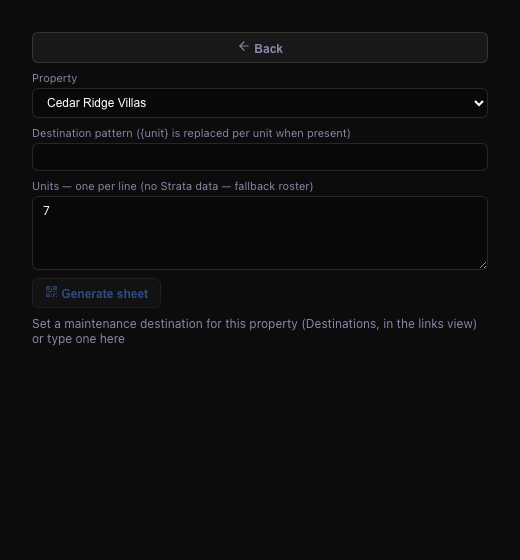
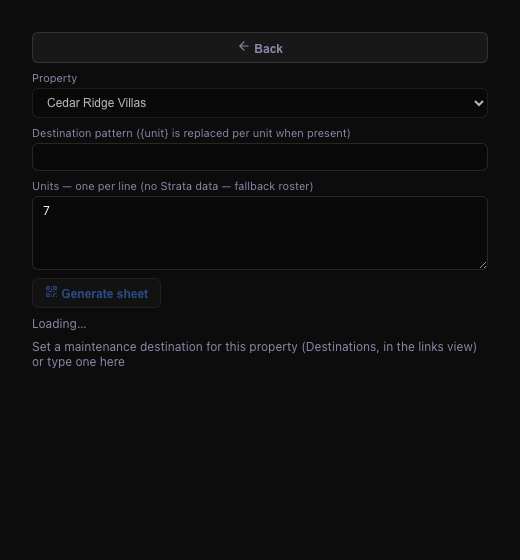
fix(links): id-derived property tags, loading-aware door sheet, roster hints (plan 077 p4 review)
Each reproduced by an adversarial review of 8001adb:

- Two Strata properties with the same name got '-2' tags that collided
  with a real '... 2' property and moved with list order, so one
  property's door codes could re-aim the other's through the bulk
  upsert. Duplicates now get an id-derived suffix (order-independent).
- Generate during the initial list load minted nothing and blamed an
  unreachable backend; it now waits ('Loading...'), and a needs-setup
  backend is named as such on the sheet.
- An empty roster disabled Generate silently; it says why. A request
  with units: [] means the whole roster.
- A comma inside a unit label ('12, Rear') split it into two codes.
- A blank Strata name or unit number produced a dead button; archived
  and inactive properties are left out; presets wait for the property
  list instead of showing the fallback as if it were Strata's.
- Scribe: a long doc slug would overflow the 64-char key; hash suffix.
- Tests for the four untested guards the reviewer found.

Changed region(s): [[0.0615, 0.5464, 0.9231, 0.6679], [0.0923, 0.1821, 0.2154, 0.2125], [0.2462, 0.1821, 0.2769, 0.2125]]

diff --git a/qualia-shell/src/test/shortLinksWidget.test.tsx b/qualia-shell/src/test/shortLinksWidget.test.tsx
@@ -1753,3 +1753,105 @@ describe('ShortLinks widget — Strata properties + door-sheet deep link (plan 0
         expect(screen.getByRole('button', { name: 'QR door sheet' })).toBeInTheDocument();
     });
 });
+
+describe('phase 4 review regressions', () => {
+    const req = (units?: string[]) => ({ propertyId: 'woodland-parc', propertyName: 'Woodland Parc Townhomes', ...(units ? { units } : {}) });
+    const fire = (detail: unknown) => window.dispatchEvent(new CustomEvent('dwellium:open-door-sheet', { detail }));
+
+    it('Generate waits for the list (disabled + "Loading…") instead of minting nothing with a wrong reason', async () => {
+        seedDestinations();
+        let release: ((r: Response) => void) | null = null;
+        vi.stubGlobal('fetch', vi.fn(async () => new Promise<Response>(res => { release = res; })));
+        setPendingDeepLink('short-links', JSON.stringify(req(['2794-5'])));
+        render(<ShortLinks />);
+        await screen.findByLabelText('Destination pattern');
+        expect(screen.getByRole('button', { name: /Generate sheet/i })).toBeDisabled();
+        expect(screen.getByText('Loading…')).toBeInTheDocument();
+        release!(jsonResponse({ success: true, mode: 'builtin', data: [] }));
+        await waitFor(() => expect(screen.getByRole('button', { name: /Generate sheet/i })).toBeEnabled());
+    });
+
+    it('a needs-setup backend says so on the sheet instead of "not reachable"', async () => {
+        seedDestinations();
+        vi.stubGlobal('fetch', vi.fn(async () => jsonResponse({ success: false, needsSetup: true }, 503)));
+        setPendingDeepLink('short-links', JSON.stringify(req(['2794-5'])));
+        render(<ShortLinks />);
+        await screen.findByLabelText('Destination pattern');
+        fireEvent.click(screen.getByRole('button', { name: /Generate sheet/i }));
+        expect(await screen.findByText(/not set up on this backend/)).toBeInTheDocument();
+    });
+
+    it('an empty roster explains itself', async () => {
+        seedDestinations();
+        stubBackend([], {}, { mode: 'builtin' });
+        render(<ShortLinks />);
+        await waitFor(() => expect(screen.getByText(/No links/)).toBeInTheDocument());
+        fireEvent.click(screen.getByRole('button', { name: 'QR door sheet' }));
+        fireEvent.change(screen.getByLabelText('Units'), { target: { value: '' } });
+        expect(screen.getByText(/No units for this property/)).toBeInTheDocument();
+        expect(screen.getByRole('button', { name: /Generate sheet/i })).toBeDisabled();
+    });
+
+    it('a comma inside a unit label stays one unit ("12, Rear")', async () => {
+        seedDestinations();
+        const calls = stubBackend([], {}, { mode: 'builtin' });
+        render(<ShortLinks />);
+        await waitFor(() => expect(screen.getByText(/No links/)).toBeInTheDocument());
+        act(() => { fire(req(['12, Rear'])); });
+        await screen.findByLabelText('Destination pattern');
+        fireEvent.click(screen.getByRole('button', { name: /Generate sheet/i }));
+        await waitFor(() => expect(calls.some(c => c.url.includes('/api/links/bulk'))).toBe(true));
+        const sent = calls.find(c => c.url.includes('/api/links/bulk'))!.body!.links as Array<{ key: string }>;
+        expect(sent).toHaveLength(1);
+        expect(sent[0].key).toBe('woodland-parc-unit-12-rear');
+    });
+
+    it('presets wait for the property list instead of showing the fallback as if it were Strata\'s', async () => {
+        live.properties = [];
+        const mod = await import('../components/StrataDashboard/useStrataQueries');
+        const spy = vi.spyOn(mod, 'useProperties').mockReturnValue({ data: undefined, isLoading: true, isError: false } as never);
+        try {
+            stubBackend([], {}, { mode: 'builtin' });
+            render(<ShortLinks />);
+            await waitFor(() => expect(screen.getByText(/No links/)).toBeInTheDocument());
+            expect(screen.getByText('Loading properties…')).toBeInTheDocument();
+            expect(screen.queryByLabelText('Link presets')).not.toBeInTheDocument();
+        } finally { spy.mockRestore(); }
+    });
+
+    it('a new request resets a sheet that was already generated (G2)', async () => {
+        seedDestinations();
+        stubBackend([], {}, { mode: 'builtin' });
+        render(<ShortLinks />);
+        await waitFor(() => expect(screen.getByText(/No links/)).toBeInTheDocument());
+        act(() => { fire(req(['A1'])); });
+        await screen.findByLabelText('Destination pattern');
+        fireEvent.click(screen.getByRole('button', { name: /Generate sheet/i }));
+        await screen.findByTestId('qr-door-sheet-print');
+        act(() => { fire(req(['B2'])); });
+        await waitFor(() => expect((screen.getByLabelText('Units') as HTMLTextAreaElement).value).toBe('B2'));
+        expect(screen.queryByTestId('qr-door-sheet-print')).not.toBeInTheDocument();
+    });
+
+    it('a live request on a mounted widget also drains the pending slot (G3)', async () => {
+        seedDestinations();
+        stubBackend([], {}, { mode: 'builtin' });
+        render(<ShortLinks />);
+        await waitFor(() => expect(screen.getByText(/No links/)).toBeInTheDocument());
+        setPendingDeepLink('short-links', JSON.stringify(req(['A1'])));
+        act(() => { fire(req(['A1'])); });
+        await screen.findByLabelText('Destination pattern');
+        expect(takePendingDeepLink('short-links')).toBeUndefined();
+    });
+
+    it('changing the property re-seeds a roster the user had typed (G4)', async () => {
+        seedDestinations();
+        stubBackend([], {}, { mode: 'builtin' });
+        render(<ShortLinks />);
+        await waitFor(() => expect(screen.getByText(/No links/)).toBeInTheDocument());
+        fireEvent.click(screen.getByRole('button', { name: 'QR door sheet' }));
+        fireEvent.change(screen.getByLabelText('Units'), { target: { value: 'typed' } });
+        fireEvent.change(screen.getByLabelText('Property'), { target: { value: ANDY_PROPERTIES[1].id } });
+        expect((screen.getByLabelText('Units') as HTMLTextAreaElement).value).toBe(ANDY_PROPERTIES[1].units.join('\n'));
+    });
+});

diff --git a/qualia-shell/src/components/ShortLinks/QrDoorSheet.tsx b/qualia-shell/src/components/ShortLinks/QrDoorSheet.tsx
@@ -39,7 +39,7 @@ import { bulkCreateShortLinks } from './shortLinksApi';
 function parseUnits(text: string): string[] {
     const seen = new Set<string>();
     const out: string[] = [];
-    for (const raw of text.split(/[\n,]+/)) {
+    for (const raw of text.split(/\n+/)) { // one per line — a comma is part of a unit label ("12, Rear")
         const unit = raw.trim();
         if (unit && !seen.has(unit)) { seen.add(unit); out.push(unit); }
     }
@@ -102,7 +102,7 @@ export function printDoorSheet(g: Generated): void {
 interface QrDoorSheetProps {
     destinations: DestinationsMemory;
     /** Which shortener answered the list call; 'unavailable' = no backend to mint with. */
-    links: 'builtin' | 'dub' | 'unavailable';
+    links: 'builtin' | 'dub' | 'loading' | 'needs-setup' | 'unavailable';
     onBack: () => void;
     /** "Print maintenance QR" deep link: which property (and units) to open on. */
     request?: DoorSheetRequest | null;
@@ -202,8 +202,8 @@ export default function QrDoorSheet({ destinations, links, onBack, request, requ
         const cells: Cell[] = snap.units.map(unit => ({ unit, url: unitUrl(snap.pattern, unit), short: null }));
         const id = ++run.current;
         let fallback: string | null = null;
-        if (links === 'unavailable') {
-            fallback = 'Short links unavailable (the backend is not reachable) — these codes point straight at the destination';
+        if (links === 'unavailable' || links === 'needs-setup') {
+            fallback = `Short links unavailable (${links === 'needs-setup' ? 'short links are not set up on this backend' : 'the backend is not reachable'}) — these codes point straight at the destination`;
         } else {
             setBusy(true);
             const r = await bulkCreateShortLinks(cells.map(c => ({
@@ -233,7 +233,7 @@ export default function QrDoorSheet({ destinations, links, onBack, request, requ
                 </button>
                 <label className="qr-door-sheet__field">
                     Property
-                    <select className="short-links__input" value={property.id} onChange={e => pickProperty(e.target.value)} aria-label="Property">
+                    <select className="short-links__input" value={property.id} onChange={e => pickProperty(e.target.value)} aria-label="Property" disabled={list.loading}>
                         {options.map(p => <option key={p.id} value={p.id}>{p.name}</option>)}
                     </select>
                 </label>
@@ -254,7 +254,7 @@ export default function QrDoorSheet({ destinations, links, onBack, request, requ
                 <div className="qr-door-sheet__actions">
                     <button
                         className="short-links__btn"
-                        disabled={!patternOk || units.length === 0 || busy}
+                        disabled={!patternOk || units.length === 0 || busy || links === 'loading' || list.loading}
                         onClick={() => void generate()}
                     >
                         <QrCode size={13} aria-hidden /> {busy ? 'Generating…' : 'Generate sheet'}
@@ -265,6 +265,8 @@ export default function QrDoorSheet({ destinations, links, onBack, request, requ
                         </button>
                     )}
                 </div>
+                {(links === 'loading' || list.loading) && <p className="short-links__muted">Loading…</p>}
+                {units.length === 0 && <p className="short-links__muted">No units for this property — paste the roster, one per line.</p>}
                 {!pattern.trim() && <p className="short-links__muted">{EMPTY_HINT}</p>}
                 {pattern.trim() && !patternOk && <p className="short-links__muted">The destination must be an http(s) URL.</p>}
                 {refusal && <p className="short-links__notice" role="status">{refusal}</p>}

diff --git a/qualia-shell/src/test/shortLinksPhase4Modules.test.tsx b/qualia-shell/src/test/shortLinksPhase4Modules.test.tsx
@@ -54,8 +54,26 @@ describe('useLinkProperties', () => {
         const { result } = renderHook(() => useLinkProperties());
         expect(result.current.source).toBe('strata');
         expect(result.current.loading).toBe(false);
-        expect(result.current.properties.map(p => p.tag)).toEqual(['oak-park', 'oak-park-2', 'oak-park-3', 'elm']);
-        expect(result.current.properties[0]).toEqual({ id: 'p1', name: 'Oak Park', tag: 'oak-park', units: [] });
+        const tags = result.current.properties.map(p => p.tag);
+        expect(tags[3]).toBe('elm');
+        expect(new Set(tags).size).toBe(4); // all distinct
+        expect(tags.slice(0, 3).every(t => /^oak-park-[0-9a-f]{6}$/.test(t))).toBe(true); // every colliding one carries an id suffix, never a bare -2
+        expect(result.current.properties[0]).toMatchObject({ id: 'p1', name: 'Oak Park', units: [] });
+    });
+    it('tags never collide with another property\'s real name and do not depend on list order', () => {
+        const rows = [{ id: 'a', name: 'Oak Park' }, { id: 'b', name: 'Oak Park' }, { id: 'c', name: 'Oak Park 2' }];
+        q.props = { data: rows, isLoading: false, isError: false };
+        const first = renderHook(() => useLinkProperties()).result.current.properties.map(p => [p.id, p.tag]);
+        q.props = { data: [...rows].reverse(), isLoading: false, isError: false };
+        const second = renderHook(() => useLinkProperties()).result.current.properties.map(p => [p.id, p.tag]);
+        expect(new Set(first.map(x => x[1])).size).toBe(3);
+        expect(first.find(x => x[0] === 'c')![1]).toBe('oak-park-2'); // the real "Oak Park 2" keeps its own tag
+        expect(Object.fromEntries(second)).toEqual(Object.fromEntries(first)); // same tags whatever the order
+    });
+    it('leaves out archived/inactive properties and blank names', () => {
+        q.props = { data: [{ id: 'x', name: 'Live' }, { id: 'y', name: 'Old', status: 'archived' }, { id: 'z', name: 'Dark', status: 'inactive' }, { id: 'w', name: '   ' }], isLoading: false, isError: false };
+        const { result } = renderHook(() => useLinkProperties());
+        expect(result.current.properties.map(p => p.id)).toEqual(['x']);
     });
     it('is the fallback list and loading while the query loads', () => {
         q.props = { data: undefined, isLoading: true, isError: false };
@@ -130,5 +148,11 @@ describe('doorSheetLink', () => {
         for (const bad of [undefined, null, 'x', 3, { propertyId: 1, propertyName: 'n' }, { propertyId: 'p' }, { propertyId: 'p', propertyName: 'n', units: [''] }, { propertyId: 'p', propertyName: 'n', units: [1] }]) {
             expect(parseDoorSheetRequest(bad)).toBeNull();
         }
+    });
+});
+
+describe('doorSheetLink — units: [] means the whole roster', () => {
+    it('drops an empty units array instead of pinning an empty roster', () => {
+        expect(parseDoorSheetRequest({ propertyId: 'p', propertyName: 'P', units: [] })).toEqual({ propertyId: 'p', propertyName: 'P' });
     });
 });

diff --git a/qualia-shell/src/components/ShortLinks/linkProperties.ts b/qualia-shell/src/components/ShortLinks/linkProperties.ts
@@ -19,13 +19,30 @@ export function propertyTag(name: string): string {
 const num = (s: string) => parseInt(s.replace(/\D/g, ''), 10) || 0;
 const naturalSort = (a: string, b: string) => num(a) - num(b) || a.localeCompare(b);
 
+/** Six hex chars of the property id — a suffix that cannot collide with another property's NAME-derived tag. */
+function idSuffix(id: string): string {
+    let h = 5381; for (const ch of id) h = ((h * 33) ^ ch.charCodeAt(0)) >>> 0;
+    return h.toString(16).padStart(8, '0').slice(-6); // low bits: short ids like 'p1'/'p2' differ only there
+}
+/**
+ * Tags are short-link key namespaces (door keys `<tag>-unit-<n>`, presets `<tag>-<suffix>`), so two
+ * properties must never share one and a property's tag must not move when the list is reordered:
+ * a duplicate name gets an id-derived suffix (never a positional `-2`, which another property called
+ * "Oak Park 2" would legitimately own). The id makes it order-independent by construction.
+ */
 function withUniqueTags(rows: Array<{ id: string; name: string }>): LinkProperty[] {
-    const seen = new Map<string, number>();
+    const bases = new Map<string, number>();
+    for (const p of rows) bases.set(propertyTag(p.name), (bases.get(propertyTag(p.name)) ?? 0) + 1);
+    const taken = new Set<string>();
     return rows.map(p => {
         const base = propertyTag(p.name);
-        const n = (seen.get(base) ?? 0) + 1;
-        seen.set(base, n);
-        return { id: p.id, name: p.name, tag: n === 1 ? base : `${base}-${n}`, units: [] };
+        let tag = base;
+        if ((bases.get(base) ?? 0) > 1 || taken.has(tag)) {
+            tag = `${base.slice(0, 33)}-${idSuffix(p.id)}`;
+            for (let n = 2; taken.has(tag); n++) tag = `${base.slice(0, 31)}-${idSuffix(p.id)}-${n}`; // ponytail: a 24-bit hash collision between two same-named properties
+        }
+        taken.add(tag);
+        return { id: p.id, name: p.name, tag, units: [] };
     });
 }
 
@@ -33,7 +50,8 @@ export function useLinkProperties(selectedId?: string): {
     properties: LinkProperty[]; unitsFor: (id: string) => string[]; source: 'strata' | 'fallback'; loading: boolean;
 } {
     const q = useProperties();
-    const rows = Array.isArray(q?.data) ? q.data.filter(p => p && p.id && typeof p.name === 'string') : [];
+    // Archived / inactive properties get no door sheets; a blank name reads as unset (the picker needs text).
+    const rows = Array.isArray(q?.data) ? q.data.filter(p => p && p.id && typeof p.name === 'string' && p.name.trim() && p.status !== 'archived' && p.status !== 'inactive') : [];
     const source = rows.length > 0 ? 'strata' : 'fallback';
     // Fallback ids are not Strata ids: never ask Strata for their units.
     const u = useUnits(source === 'strata' ? selectedId : undefined);

diff --git a/qualia-shell/src/components/ShortLinks/ShortLinks.tsx b/qualia-shell/src/components/ShortLinks/ShortLinks.tsx
@@ -173,7 +173,7 @@ export default function ShortLinks() {
     const [creating, setCreating] = useState(false);
 
     // Presets
-    const { properties } = useLinkProperties();
+    const { properties, loading: propertiesLoading } = useLinkProperties();
     const [pickedProperty, setPickedProperty] = useState<string | null>(null);
     const presetProp = properties.find(p => p.id === pickedProperty) ?? properties[0]; // never empty: Andy fallback
     const presetProperty = presetProp.id;
@@ -409,7 +409,7 @@ export default function ShortLinks() {
             <div className="short-links">
                 <QrDoorSheet
                     destinations={destinations}
-                    links={state.kind === 'ok' ? state.data.mode : 'unavailable'}
+                    links={state.kind === 'ok' ? state.data.mode : state.kind === 'loading' ? 'loading' : state.kind === 'needs-setup' ? 'needs-setup' : 'unavailable'}
                     onBack={() => { setDoorRequest(null); setMode('links'); }}
                     request={doorRequest?.request}
                     requestKey={doorRequest?.key}
@@ -482,7 +482,9 @@ export default function ShortLinks() {
 
             {state.kind === 'ok' && (
                 <>
-                    <section className="short-links__presets" aria-label="Link presets">
+                    {/* The property list decides which presets/destinations exist: never show the fallback list as if it were Strata's while Strata is still answering. */}
+                    {propertiesLoading && <p className="short-links__muted" role="status">Loading properties…</p>}
+                    {!propertiesLoading && <section className="short-links__presets" aria-label="Link presets">
                         <select
                             className="short-links__input short-links__input--key"
                             value={presetProperty}
@@ -508,7 +510,7 @@ export default function ShortLinks() {
                                 </button>
                             );
                         })}
-                    </section>
+                    </section>}
                     <details className="short-links__destinations">
                         <summary>Destinations — {presetProp.name}</summary>
                         <div className="short-links__destinations-grid">

diff --git a/qualia-shell/src/components/StrataDashboard/modules/PropertiesModule.tsx b/qualia-shell/src/components/StrataDashboard/modules/PropertiesModule.tsx
@@ -965,12 +965,13 @@ export default function PropertiesModule({ searchNavTarget, onNavComplete }: Pro
                                 <span style={{ color: 'var(--s-accent, #6366f1)' }}>Unit {selectedUnit.unitNumber}</span>
                             </>
                         )}
-                        {selected && (
+                        {selected && selected.name.trim() && (
                             <button
                                 type="button"
                                 className="s-btn s-btn-ghost"
+                                disabled={!!selectedUnit && !String(selectedUnit.unitNumber ?? '').trim()}
                                 onClick={() => openDoorSheet(selectedUnit
-                                    ? { propertyId: selected.id, propertyName: selected.name, units: [selectedUnit.unitNumber] }
+                                    ? { propertyId: selected.id, propertyName: selected.name, units: [String(selectedUnit.unitNumber)] }
                                     : { propertyId: selected.id, propertyName: selected.name })}
                                 aria-label={selectedUnit ? `Print maintenance QR for unit ${selectedUnit.unitNumber}` : `QR door sheet for ${selected.name}`}
                             >

diff --git a/qualia-shell/src/components/ShortLinks/doorSheetLink.ts b/qualia-shell/src/components/ShortLinks/doorSheetLink.ts
@@ -18,7 +18,7 @@ export function parseDoorSheetRequest(raw: unknown): DoorSheetRequest | null {
     if (!str(propertyId) || !str(propertyName)) return null;
     if (units === undefined) return { propertyId, propertyName };
     if (!Array.isArray(units) || !units.every(str)) return null;
-    return { propertyId, propertyName, units: [...units] };
+    return units.length ? { propertyId, propertyName, units: [...units] } : { propertyId, propertyName }; // [] = whole roster
 }
 
 /** Remember the request for an unmounted widget, tell a mounted one, open the widget. */

diff --git a/Docs/code.md b/Docs/code.md
@@ -658,3 +658,10 @@ Append-only log. Each entry: error → root cause → fix → prevention.
 - **Review (reproduced):** `req.ip`-or-header keying let a forged header on a direct run.app call throttle a Netlify-routed resident — key on `ip|header` instead; a bulk re-mint `COALESCE`d the old `expires_at`, so a dead door code stayed dead behind a success message — a re-mint DEFINES the expiry; a stored-tag filter outlived its tag and stranded an empty list — derive the active filter from current tags, never store a selection the list can invalidate; `Date.parse` accepted "1" and rolled "2026-02-30" over — require full ISO with a zone and check the calendar; `/bot/` matched the CUBOT phone brand — `bot\b`.
 - **Layout (screenshot):** a fifth Tags column truncated the headers at 520 px and chips spilled into Clicks — tags and expiry are chips/text under the short link; four columns always.
 
+## 2026-10-03 — Links & QR (plan 077 phase 4): Strata rosters, deep link from a unit, short link from Scribe
+
+- **Design:** property rosters come from Strata (`useLinkProperties()` over react-query's `useProperties`/`useUnits`) with the hardcoded Andy list as the fallback when Strata has none; destinations are keyed by the Strata property id. The widget must sit under `QueryProvider` (the app root has it; `widgetMemoryAdoption.test.tsx` now wraps it) — anything mounting it bare throws "No QueryClient set".
+- **Deep link shape (reuse it):** `openDoorSheet({propertyId, propertyName, units?})` = `setPendingDeepLink('short-links', json)` + `CustomEvent('dwellium:open-door-sheet')` + `openWidget('short-links')`; the widget takes the slot on mount and listens live; a second identical request still applies via a bumped `requestKey`; an unknown property becomes a transient entry so the sheet works before Strata has answered. Same pattern as Notepad/TranscriptionHub (plan 069).
+- **Error avoided (review of the brief):** `doc-<slug>` for a 61–64-char doc slug exceeds the 64-char key limit; plain truncation would let two docs silently share — and re-aim — one short link through the bulk upsert. Long slugs get a hash suffix. Rule: never truncate a key that is also an identity.
+- **Review (reproduced):** `-${n}` de-duplication of name-derived tags collided with a real "Oak Park 2" and followed list order — a key namespace must be derived from something stable (the id) and never from a position; a 6-hex id hash from the HIGH bits of a djb2 hash was identical for 'p1'/'p2'/'p3' (use the low bits); `parseUnits` split on commas, so "Print maintenance QR" for unit "12, Rear" minted two codes.
+

diff --git a/plans/077-links-qr-widget.md b/plans/077-links-qr-widget.md
@@ -325,6 +325,19 @@ then a refute-first reviewer. Frontend only; the backend did not change.
 | "Print maintenance QR" on a Strata unit, "QR door sheet" on a property | One breadcrumb button in PropertiesModule → `openDoorSheet({propertyId, propertyName, units?})` (pending slot + live event + `openWidget('short-links')`); the widget opens its sheet on that property with that roster, or a transient entry when the property is unknown to it | doorSheetLink.ts, PropertiesModule.tsx |
 | "Short link + QR" in Scribe's PublishDialog | After publishing: Make short link → bulk upsert by key `doc-<slug>` (hash-suffixed when it would exceed 64 chars, so two long slugs can never share a link) → short URL, Copy, 120 px QR, Download SVG | PublishDialog.tsx |
 
+Review (refute-first, after the integration commit): 0 critical, 3 warnings, all reproduced. Fixed: W1 a
+duplicate property name got a `-2` tag that collided with a real "… 2" property and moved with list
+order, so one property's door codes could re-aim another's (tags now get an id-derived suffix and are
+order-independent); W2 Generate during the initial list load minted nothing and blamed an unreachable
+backend (Generate waits with "Loading…"; a needs-setup backend is named as such); W3 an empty roster
+disabled Generate silently (hint shown; a request with `units: []` means the whole roster). Low: a
+comma in a unit label split it in two (one per line now); a blank name / blank unit number from Strata
+produced a dead button (filtered / disabled); presets showed the fallback list while Strata was still
+loading ("Loading properties…"); archived/inactive properties are left out; the four untested guards
+the reviewer found now have tests. Noted, not changed: destinations typed under a fallback id do not
+migrate to the Strata id once Strata answers (they were only ever typed in dev); a short link made from
+a localhost origin targets localhost (make them on the app domain).
+
 Not done: PropertiesModule has no render test (its own test file states a full render is too costly);
 the two buttons are verified by the module's typecheck and by the deep-link module's tests only.
 No browser run inside the logged-in shell.
